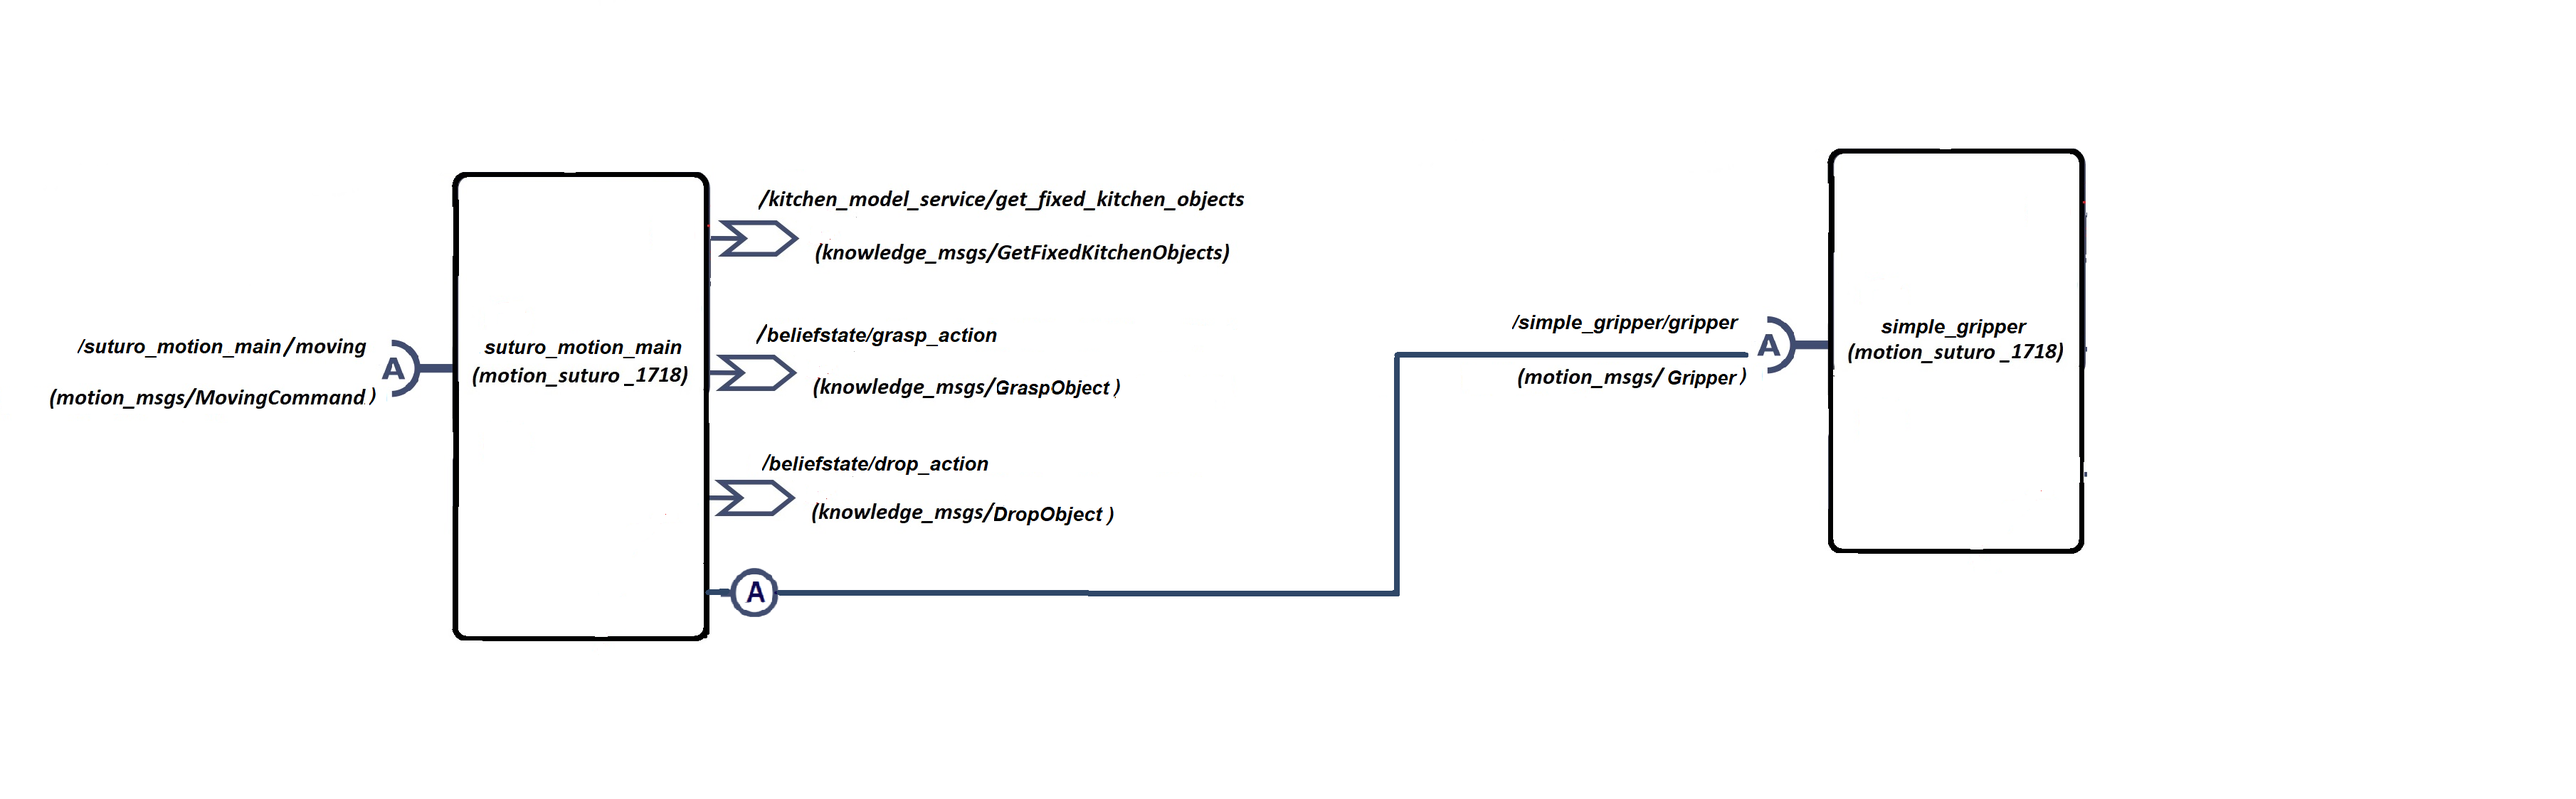
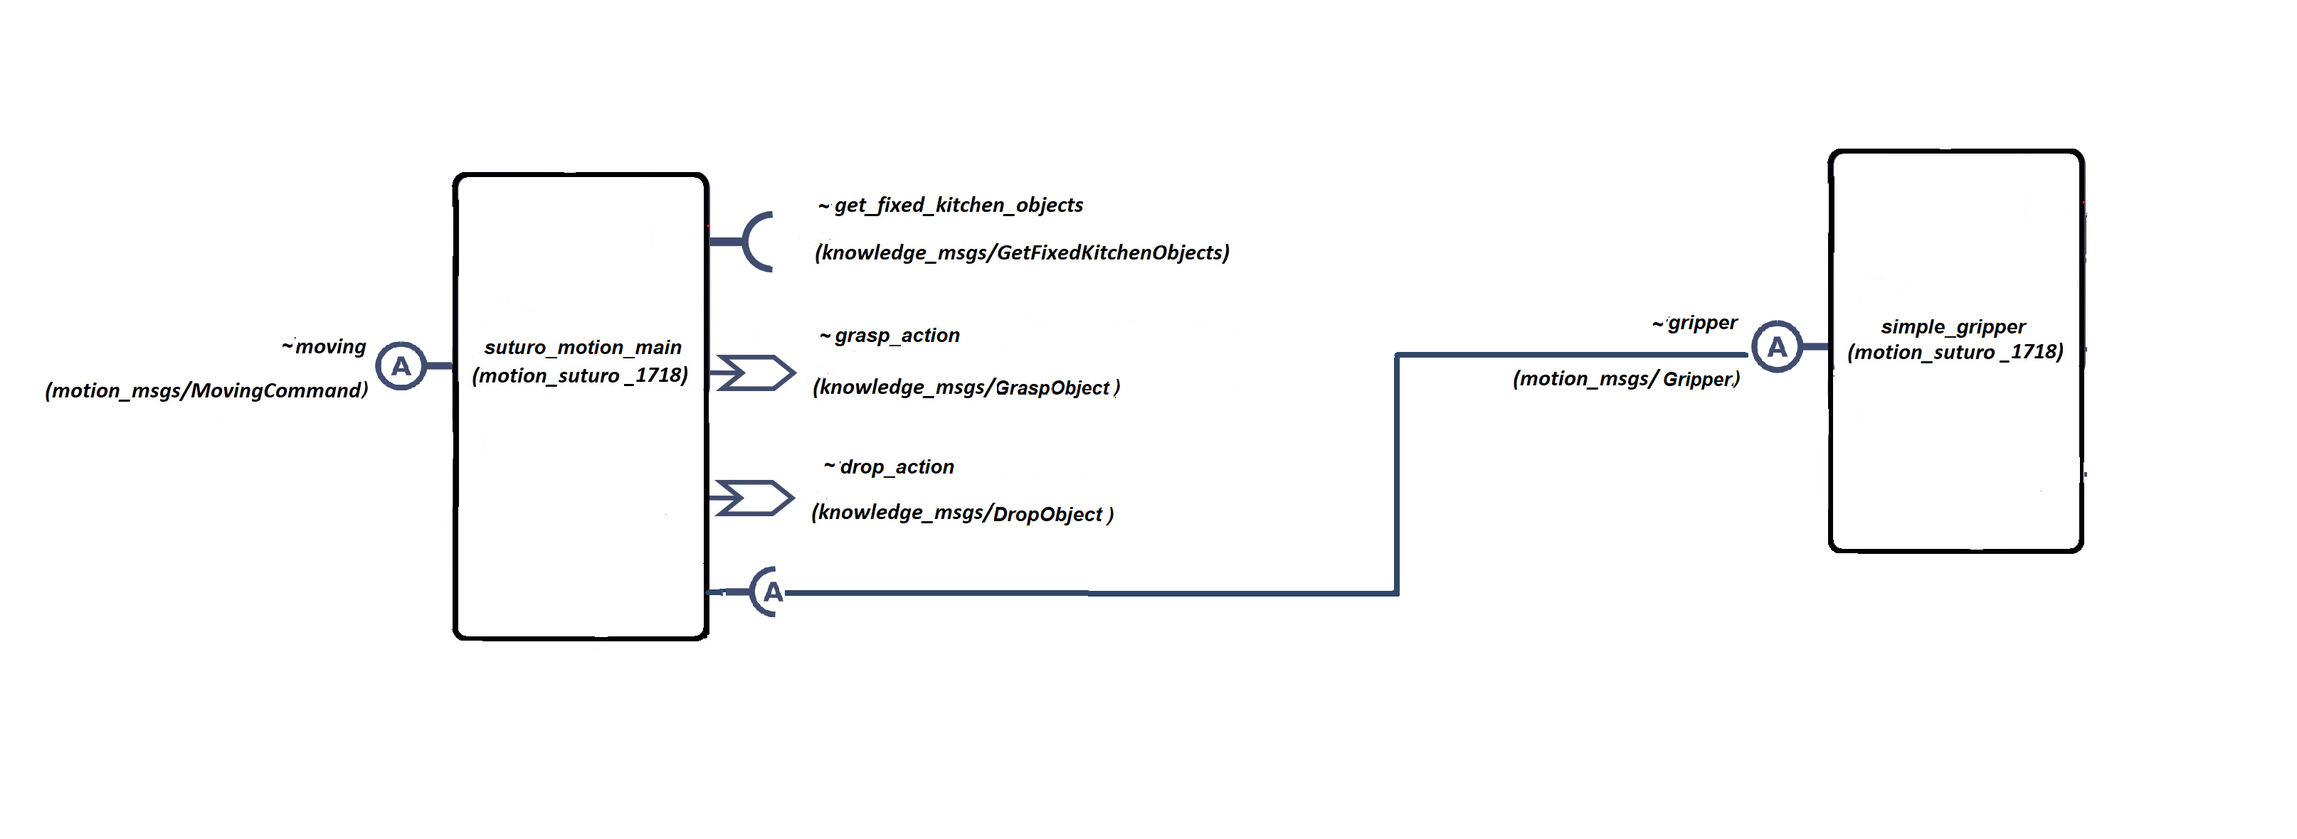
paar anpassungen

diff --git a/01_documentation/motion/milestone_2/doku.tex b/01_documentation/motion/milestone_2/doku.tex
@@ -67,14 +67,10 @@ Der Knoten '\textit{simple\_gripper}' wird dabei benutzt, um das Öffnen und Sch
 
 Im Folgenden werden die \textit{Schnittstellen}, der \textit{Ablauf} des Teilsystems, besonders \textit{hervorzuhebende} \textit{Algorithmen} und eine \textit{Installationsanleitung} beschrieben.\\
 
-\subsection{Schnittstellen}
-\subsubsection{'suturo\_motion\_main'}
-
-\paragraph{1.2.1.1 Angebotene Actions}
-
-\paragraph{1.2.1.1.1 MovingCommand}
+\subsection{Schnittstellen - 'suturo\_motion\_main'}
+\subsubsection{Angebotene Actions}
+\textbf{MovingCommand}
 \chapterauthor{Maximilian Bertram}
-'\textit{/suturo\_motion\_main/moving}': \\
 Vom Typ '\textit{motion\_msgs/MovingCommand}': \\
 \begin{lstlisting}[caption={Definition des MovingCommands},captionpos=b]
 #goal definition
@@ -115,16 +111,17 @@ uint8 UNMANAGEBLE_ERROR=3
 
 Mit Hilfe der MovingCommandAction lassen sich alle von uns zur Verfügung gestellten Funktionen aufrufen. Es wurden Konstanten definiert, die die jeweilige Aktion beschreiben und in der Message-Definition vorhanden sind.
 
-\paragraph{1.3.1.2 Aufgerufene Actions}
+\subsubsection{Aufgerufene Actions}
 Wird eine GRASP oder PLACE Aktion ausgeführt, wird über eine \\
 \textit{pr2\_ controllers\_ msgs::Pr2GripperCommandAction} Message der Gripper entsprechend geöffnet oder geschlossen.\\
-Dies ist nur eine Momentaufnahme, eigentlich sollte der Gripper über den Knoten '\textit{simple\_gripper}' geöffnet und geschloßen werden können (Siehe \textit{Abschnitt 1.2.2.1}),
+Dies ist nur eine Momentaufnahme, eigentlich sollte der Gripper über den Knoten '\textit{simple\_gripper}' geöffnet und geschloßen werden können (Siehe \textit{Abschnitt 1.3.1}),
 aber es gab leider noch kleinere Probleme, weshalb wir das Öffnen/Schließen vorläufig über den direkten Weg realisieren.\\
 
 
-\paragraph{1.2.1.3 Aufgerufene Services}
+\subsubsection{Aufgerufene Services}
 \chapterauthor{RH, MB}
-'\textit{/kitchen\_model\_service/get\_fixed\_kitchen\_objects}': 
+\textbf{GetFixedKitchenObjects}\\
+Vom Typ '\textit{knowledge\_msgs/GetFixedKitchenObjects}': \\ 
 \begin{lstlisting}[caption={Definition des GetFixedKitchenObjects-Service},captionpos=b]
 // This servicedefinition is for transfering the shape of the objects in the iai_kitchen.
 // The Motion-component calls this service for getting the shape of the kitchen-objects for it's planningscene.
@@ -142,7 +139,9 @@ geometry_msgs/Vector3[] bounding_boxes
 geometry_msgs/Pose[] poses
 \end{lstlisting}
 
-'\textit{/beliefstate/grasp\_action}' und '\textit{/beliefstate/drop\_action}':\\
+\subsubsection{Benutzte Topics}
+\textbf{GraspAction und DropAction}
+
 Wird ein Objekt erfolgreich abgestellt oder gegriffen werden für den \textit{Beliefstate} von \textit{Knowledge} noch die entsprechenden \textit{Messages} gepublished: \\
 
 \begin{lstlisting}[caption={Definition der GraspObject.msg},captionpos=b]
@@ -167,8 +166,9 @@ uint8 LEFT_GRIPPER = 1
 uint8 RIGHT_GRIPPER = 2
 \end{lstlisting}
 
-\subsubsection{'simple\_gripper'}
-\paragraph{1.2.2.1 Angebotene Actions}
+\subsection{Schnittstellen - 'simple\_gripper'}
+\subsubsection{Angebotene Actions}
+Vom Typ '\textit{motion\_msgs/Gripper}': \\
 \begin{lstlisting}[caption={Definition der GripperAction},captionpos=b]
 #goal definition
 #position of the space between the grippers in meters
@@ -187,7 +187,7 @@ bool successful
 #feedback definition
 #bool finished
 \end{lstlisting}
-\paragraph{1.2.2.2 Aufgerufene Actions}
+\subsubsection{Aufgerufene Actions}
 Die GripperAction-Message wird entsprechend geparsed und eine \\
  \textit{pr2\_ controllers\_ msgs::Pr2GripperCommandAction} erzeugt und gepublished. \\
 
